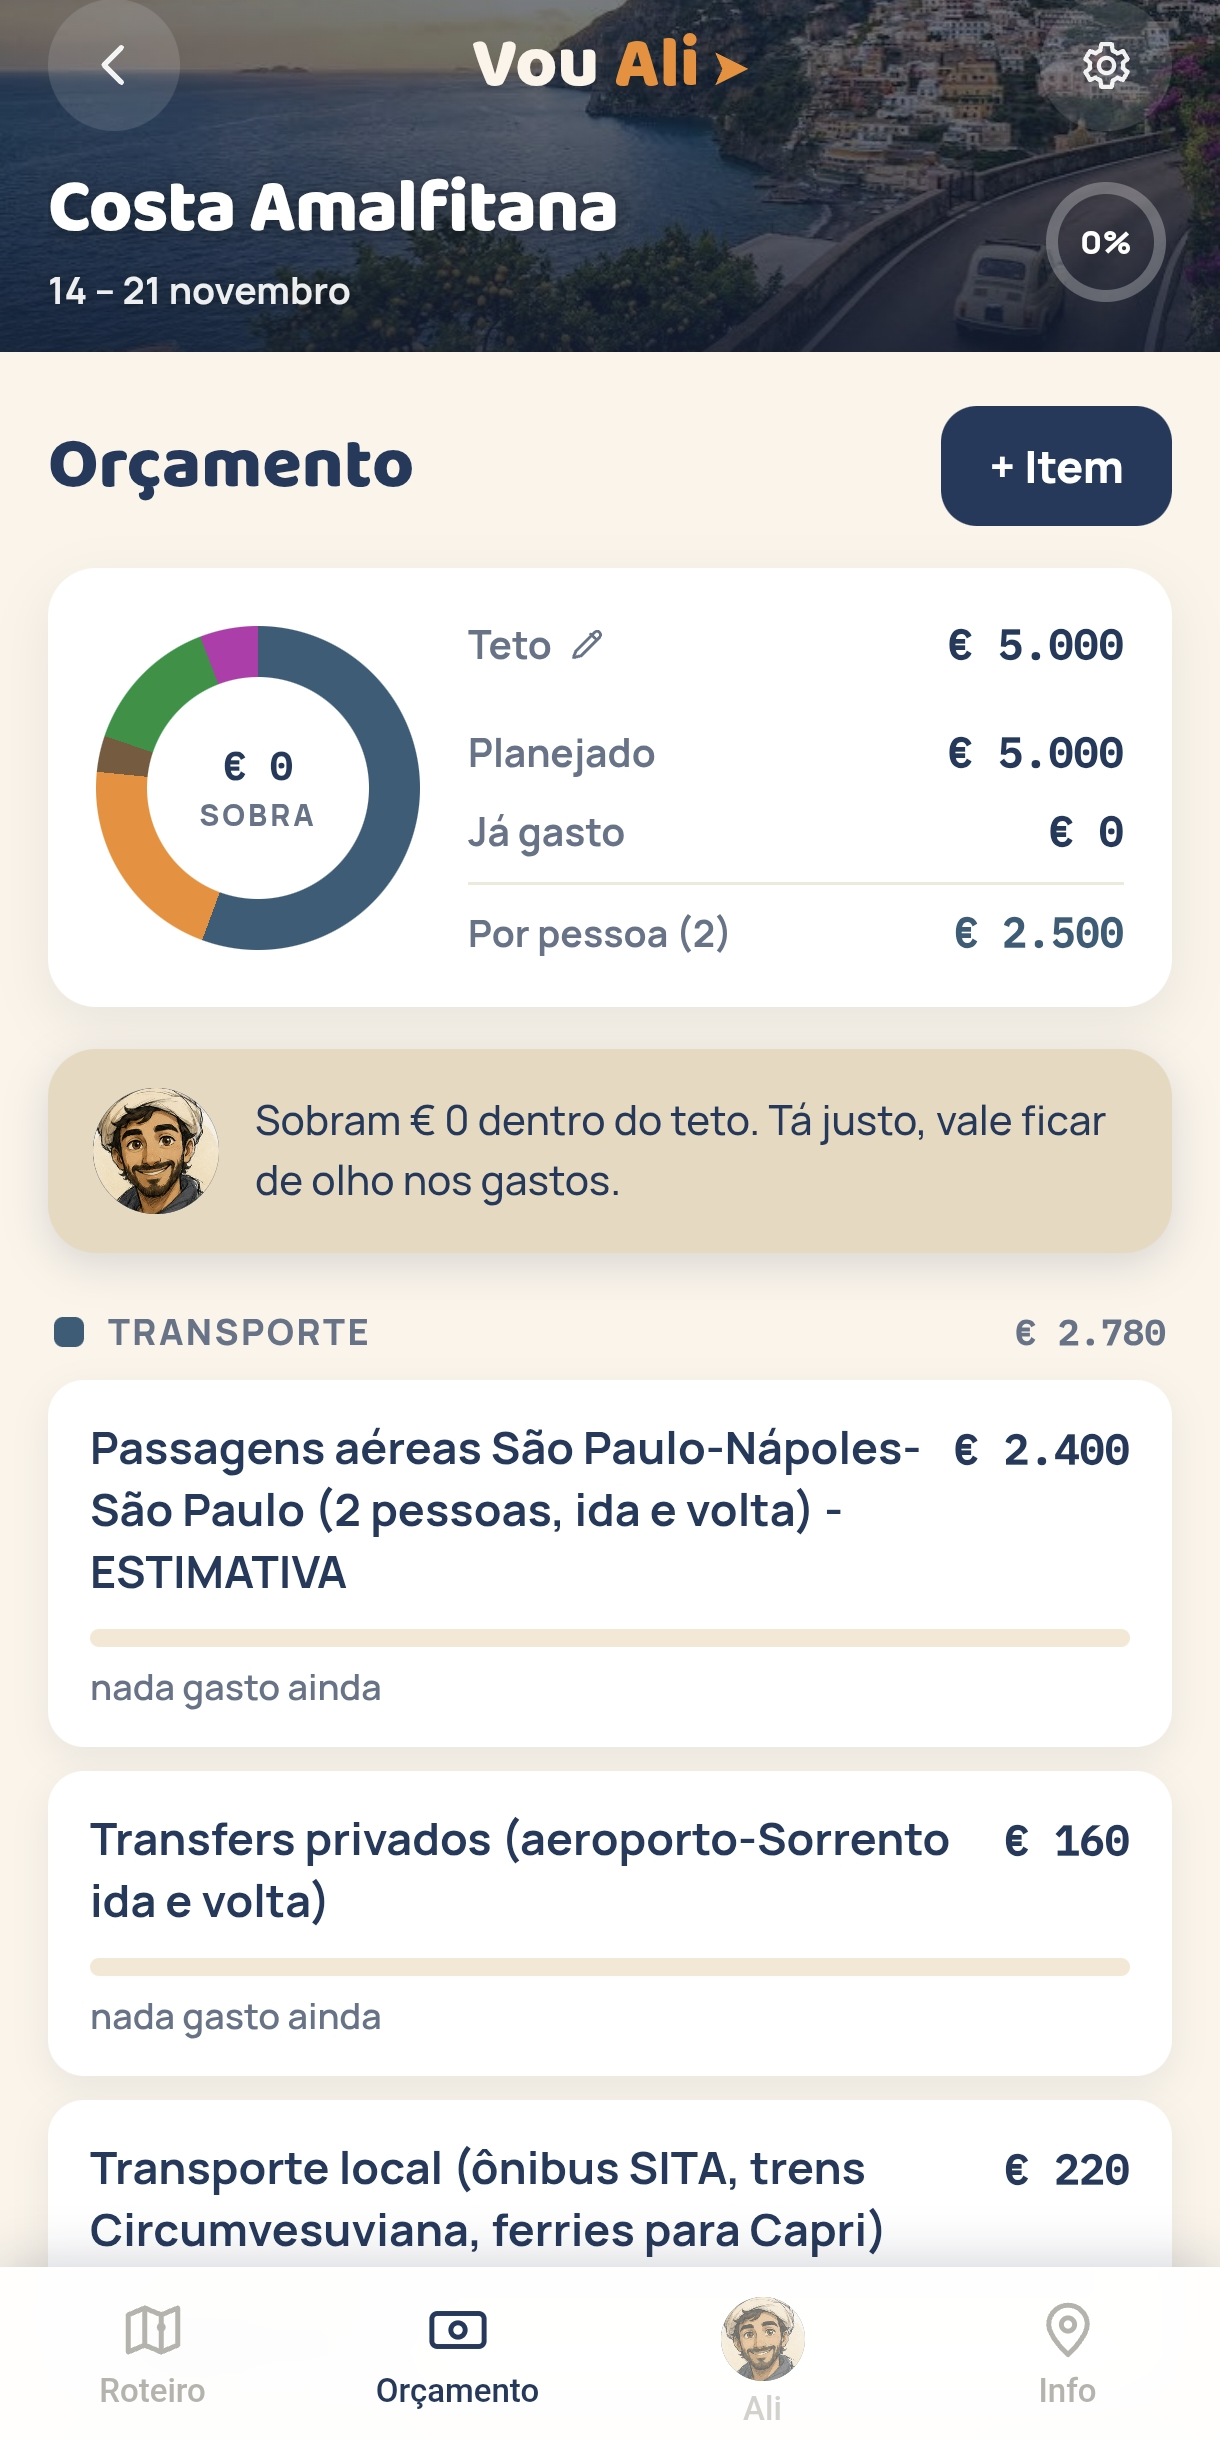
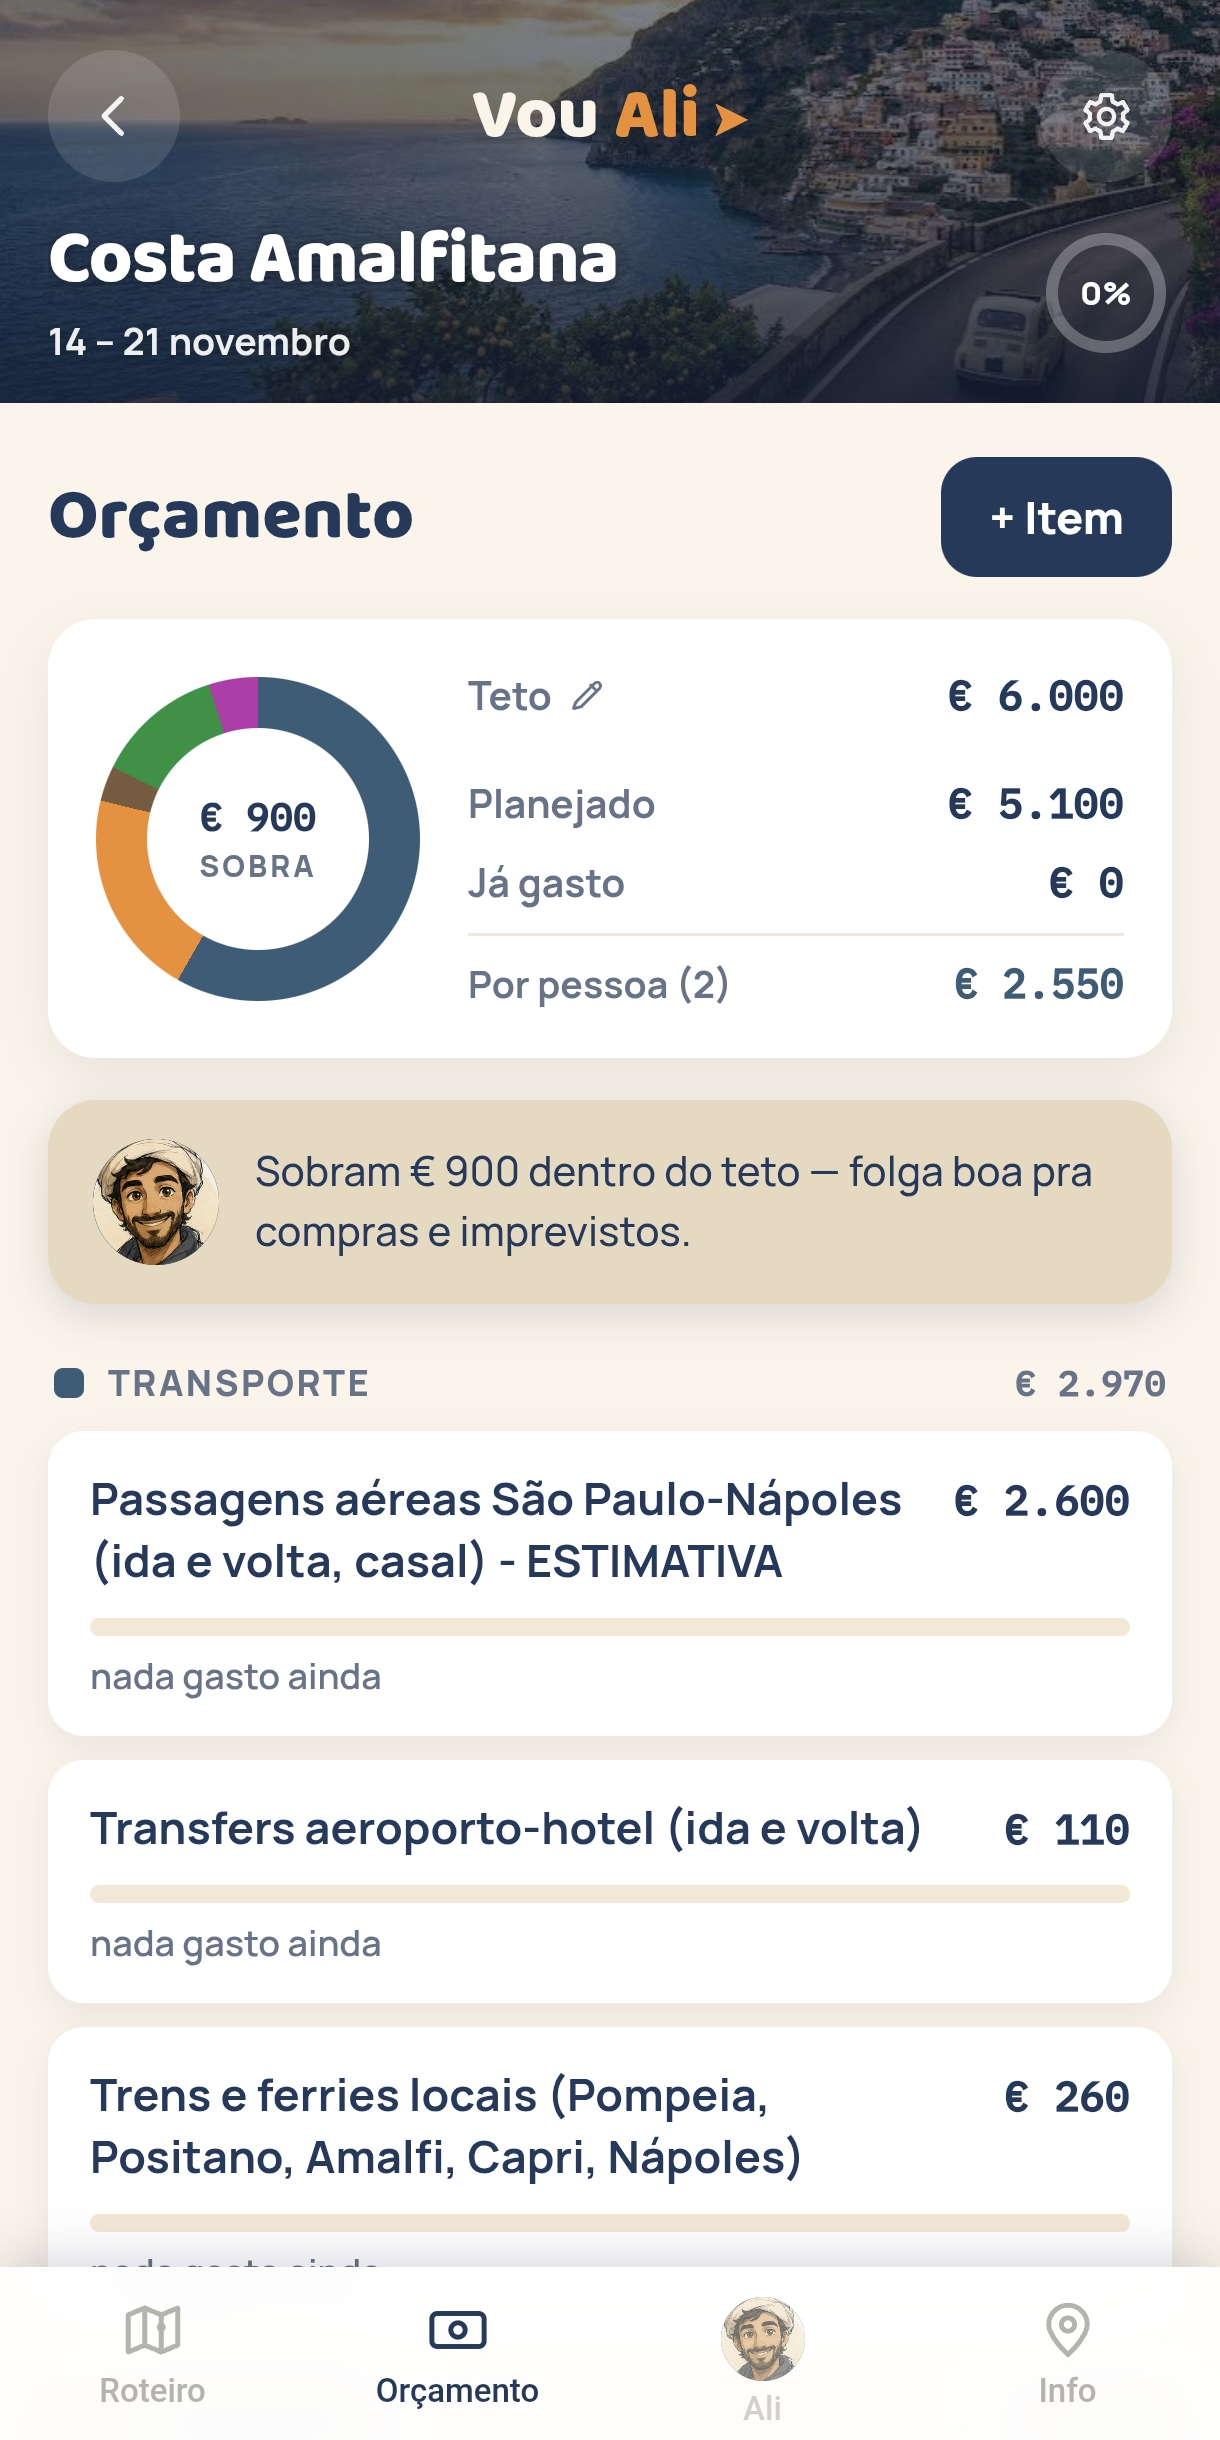
Captura do orcamento mostrando folga
O teto estava igual ao planejado, e a vitrine dizia 'Ta justo, vale ficar de
olho nos gastos'. Com o teto em 6.000 a mesma tela passa a mostrar 900 de
sobra, e o Ali diz 'folga boa pra compras e imprevistos' -- que e o que se
quer ver antes de instalar um app de orcamento.

Changed region(s): [[0.0, 0.0, 1.0, 0.9344]]

diff --git a/identidade-visual-vouali/preparar-capturas.py b/identidade-visual-vouali/preparar-capturas.py
@@ -27,7 +27,7 @@ CREME = (251, 244, 233)
 TELAS = [
     ("15-12-49", "1-minhas-viagens", True),   # o rodapé com o e-mail está aqui
     ("15-13-37", "2-roteiro", False),
-    ("15-14-19", "3-orcamento", False),
+    ("15-35-44", "3-orcamento", False),
     ("15-15-26", "4-ali", False),
     ("15-15-53", "5-comprar-antes", False),
 ]
